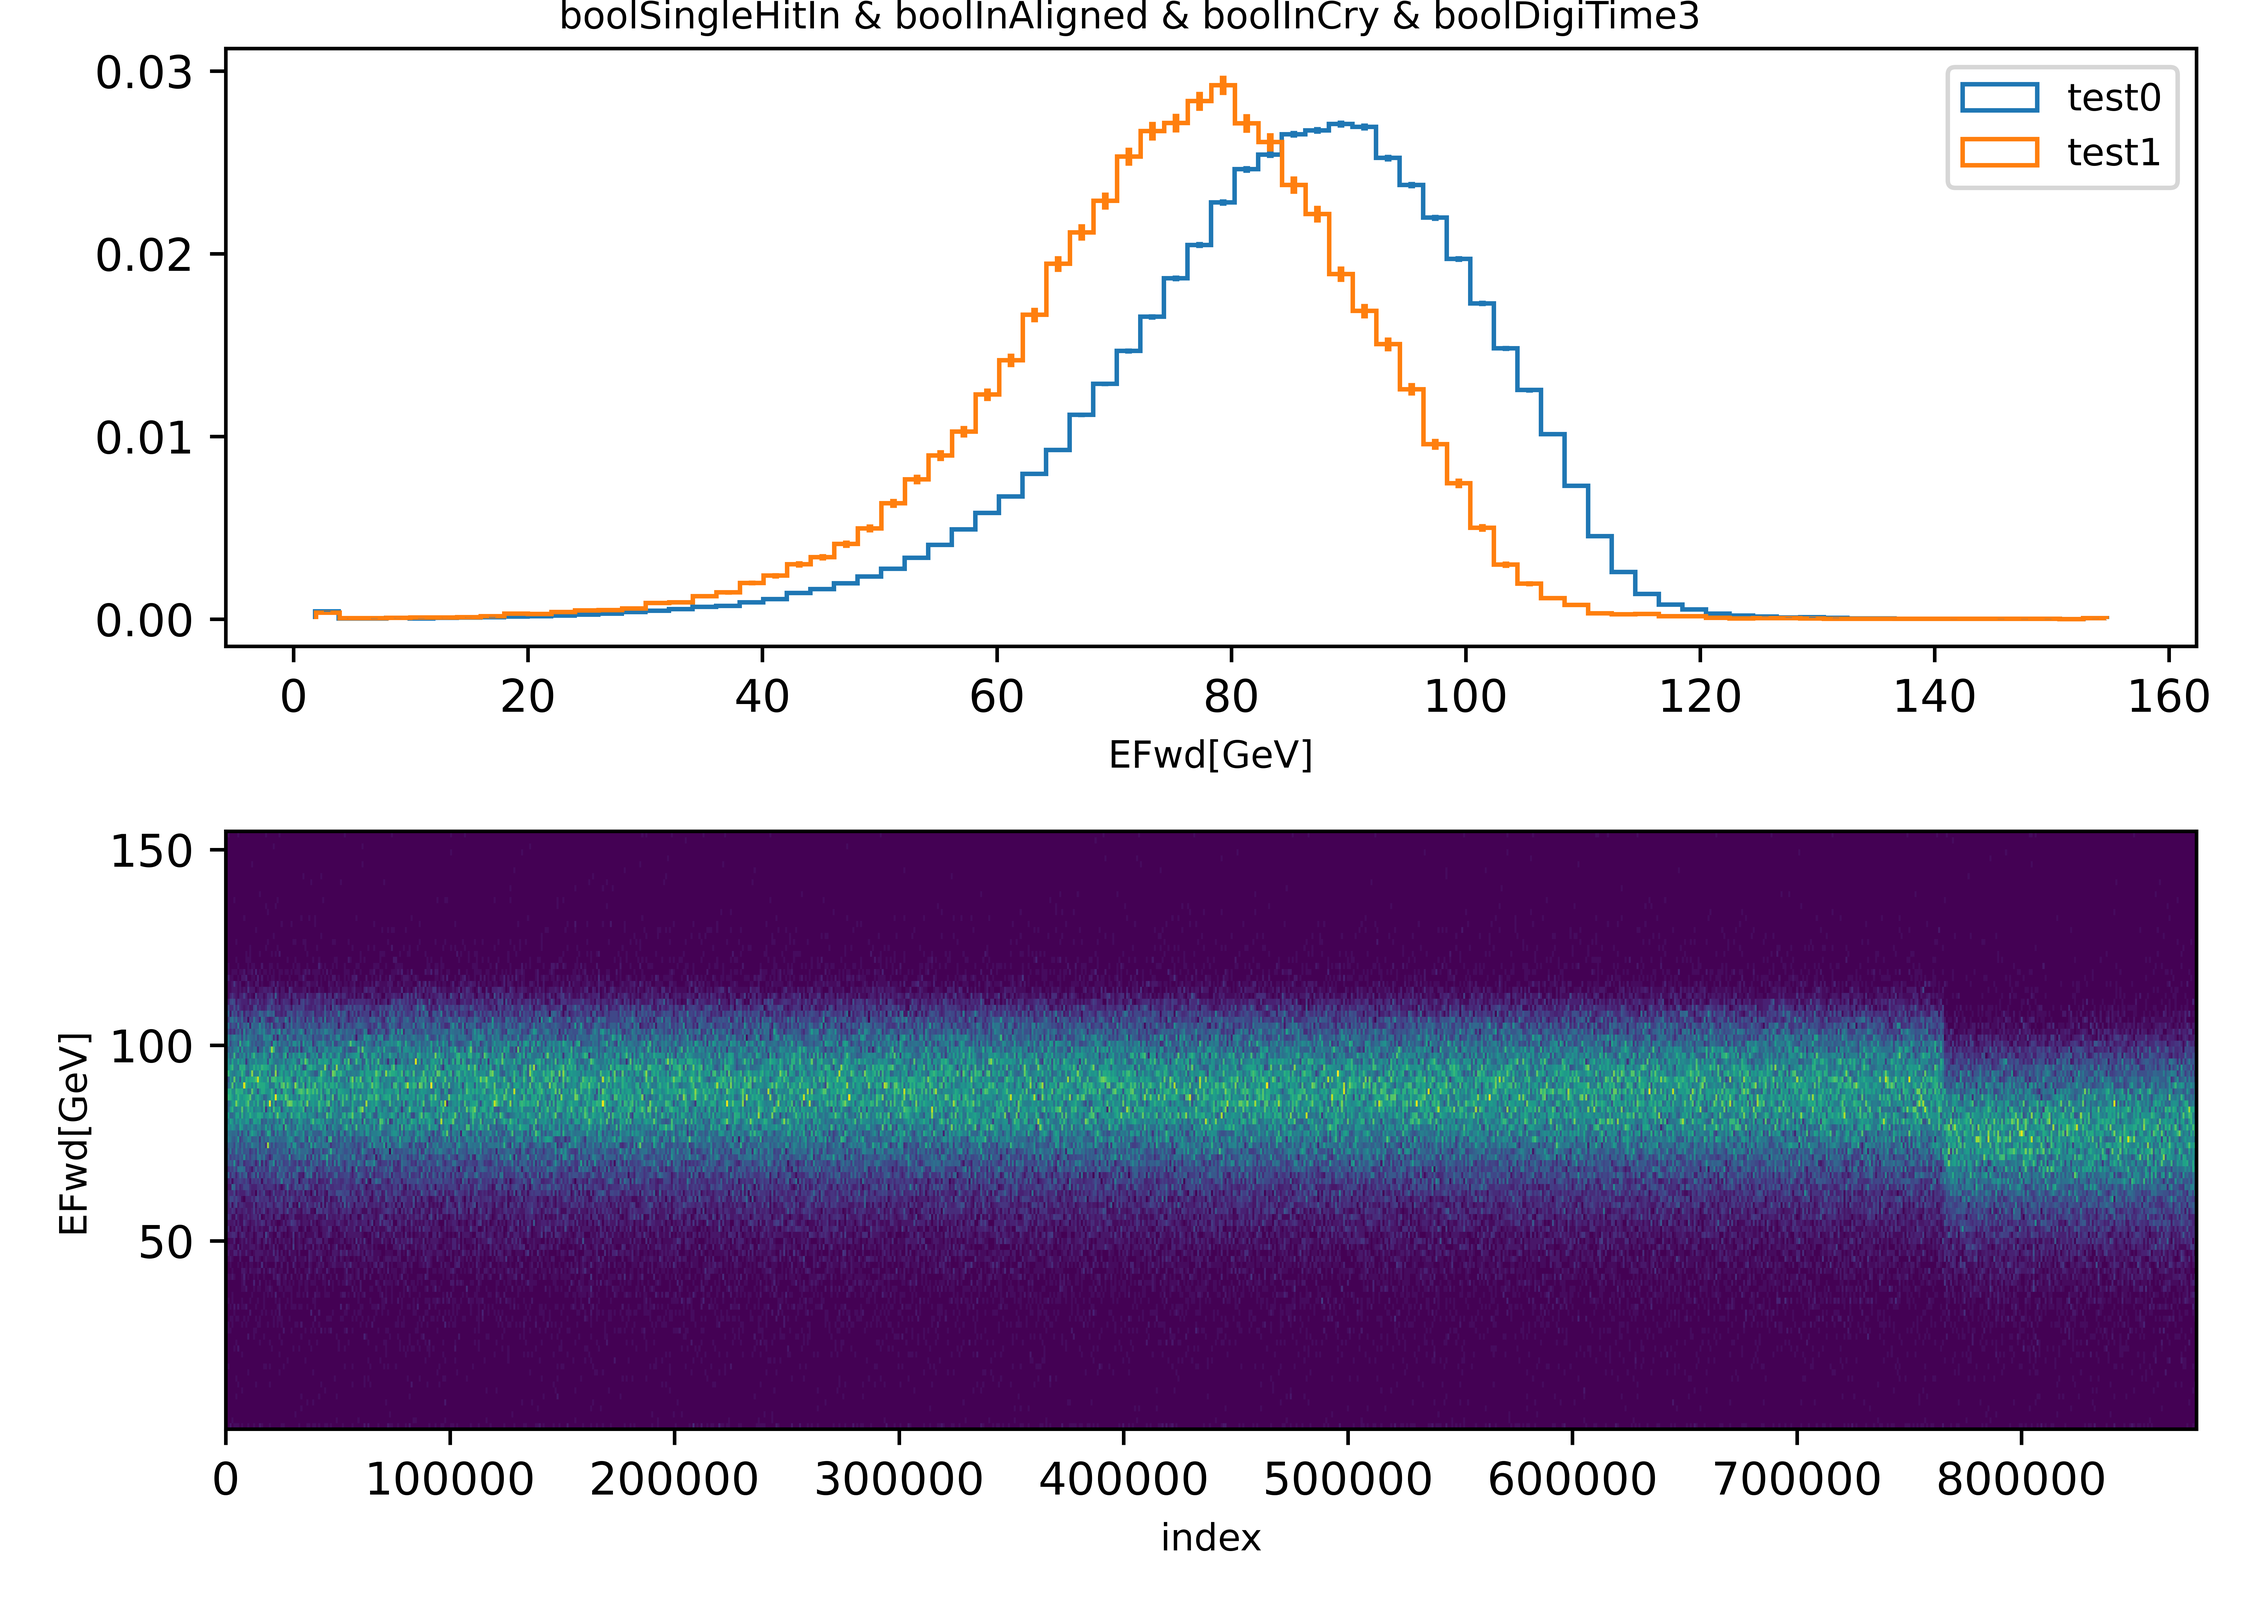
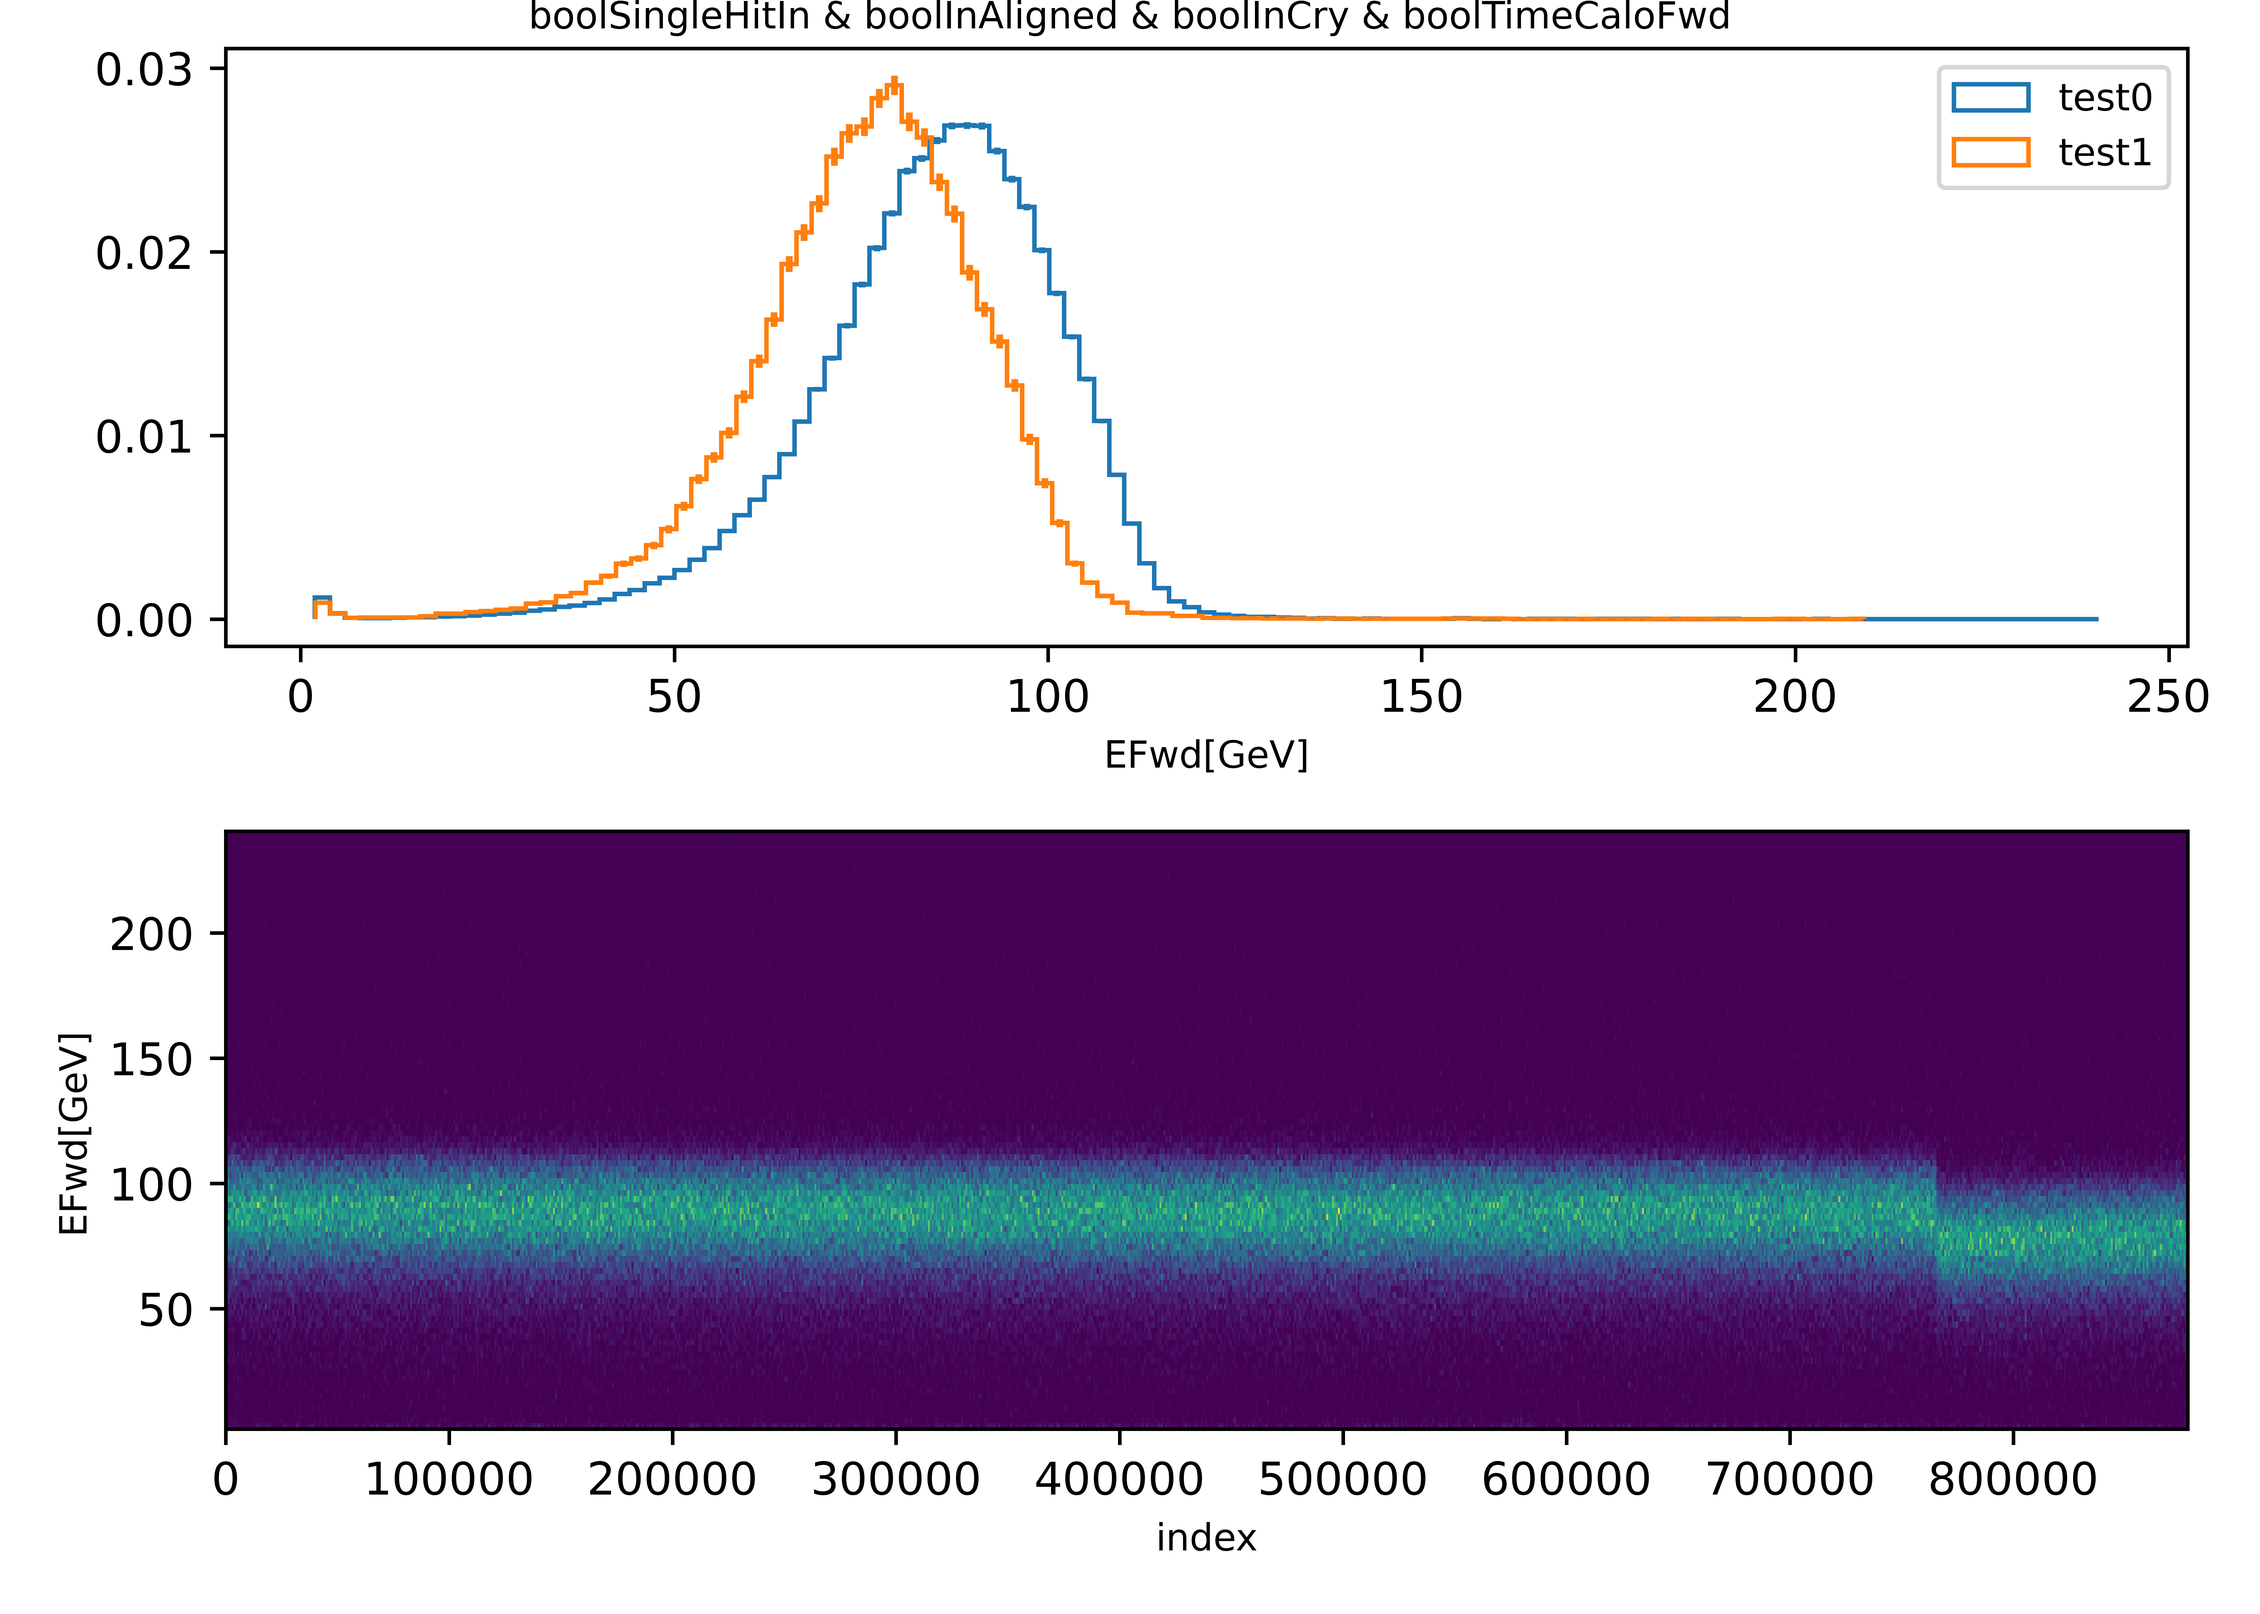
added total forward calo time boolean

diff --git a/modules/physicsAnalysis.py b/modules/physicsAnalysis.py
@@ -216,7 +216,7 @@ def equalise(df, lsDigiCh, equalMap):
                     funcSrc = inspect.getsource(func)
                     funcStr = (funcSrc.partition("lambda ")[1]+funcSrc.partition("lambda ")[2]).partition(", 'end'")[0]
                     print("digiPHRaw%s --> digiPH%s via %s" % (iCh, iCh, funcStr))
-                    df.loc[dfBool + iCh] = func(*args)
+                    df.loc[dfBool, "digiPH" + iCh] = func(*args)
 
                 else:
                     print("digiPH%s = digiPHRaw%s, i.e. not equalised (not in equalMap)" % (iCh, iCh))
@@ -321,6 +321,38 @@ def caloSum(df, bPHCalo0, lsDigiChCalo, caloName, bOverwrite=True):
     #     --> original raw df variable not removed from df, but bPHCalo=False (run by run)
     return df, bPHCalo
     
+###############################################################################
+###############################################################################
+
+def caloTimeBool(df, bPHCalo, lsDigiChCalo, bDigiTime, caloName):
+    for iRun in df["iRun"].unique():
+        dfBool = df["iRun"] == iRun
+        print("run %s:" % iRun)
+        
+        if bPHCalo[iRun]:
+            if iRun in lsDigiChCalo:
+                if len(lsDigiChCalo[iRun]) > 0:
+                    lsTimeAvail = [s for s in lsDigiChCalo[iRun] if bDigiTime[s]]
+                    print("%d time entries found in df for Calo%s channels --> boolTimeCalo%s added to df (OR between channels)" % (len(lsTimeAvail), caloName, caloName))
+                    df.loc[dfBool, "boolTimeCalo"+caloName] = False
+                    for iCh in lsTimeAvail:
+                        df.loc[dfBool, "boolTimeCalo"+caloName] = df["boolTimeCalo"+caloName] | df["boolDigiTime"+iCh]
+                    
+                else:
+                    print("requested PHCalo%s not calculated from single channels --> boolTimeCalo%s always True" (caloName, caloName))
+                    df.loc[dfBool, "boolTimeCalo"+caloName] = True
+                    
+            else:
+                print("requested PHCalo%s not calculated from single channels --> boolTimeCalo%s always True" (caloName, caloName))
+                df.loc[dfBool, "boolTimeCalo"+caloName] = True
+
+        else:
+            print("requested PHCalo%s not available --> boolTimeCalo%s always True" (caloName, caloName))
+            df.loc[dfBool, "boolTimeCalo"+caloName] = True
+            
+    return df
+    
+
 ###############################################################################
 ###############################################################################
             

diff --git a/modules/__init__.py b/modules/__init__.py
@@ -3,5 +3,5 @@ from .dfFilter import dfFiltering
 from .dataLoad import loadSkipPrint, loadDonePrint, loadGeneral, readOutData
 from .dataSave import saveOutData
 from .settingsConf import settingsSelect, boolControlPrint, settingsPrint
-from .physicsAnalysis import peakedDistMode, aveVar, trackingAngleAlign, inputTrackingProj, inHitCuts, outHitCuts, outputTrackingPrint, gonioPair, equalise, defineDigiBooleans, caloSum, calibrate
+from .physicsAnalysis import peakedDistMode, aveVar, trackingAngleAlign, inputTrackingProj, inHitCuts, outHitCuts, outputTrackingPrint, gonioPair, equalise, defineDigiBooleans, caloSum, caloTimeBool, calibrate
 from .plots import plot_selectionX, plot_selectionY, plot_selectionBox, plot_runInfo, plot_th, plot_nHit, plot_proj, plot_gonioCorr, plot_digi, plot_gonioTrends, plot_energySingle, plot_energyRuns

diff --git a/settings/y19EliotDesyT21_runList.py b/settings/y19EliotDesyT21_runList.py
@@ -90,9 +90,15 @@ nRun0 = {
     "405424": "PWOStrip_AxisSearch_Presh0.40X0",
     "405425": "PWOStrip_AxisSearch_Presh0.40X0",
     
+    # calorimeter calibration
+    "405391": "CaloCalib_2.0GeV",
+    "405390": "CaloCalib_4.0GeV",
+    "405383": "CaloCalib_4.4GeV",
+    "405384": "CaloCalib_5.2GeV",
+    "405385": "CaloCalib_5.6GeV",
+    
     # other runs
     "405296": "Plastic_MagnetOn",
     "405297": "Direct_MagnetOn",
-    "405385": "Direct_MagnetOff"
     
 }
